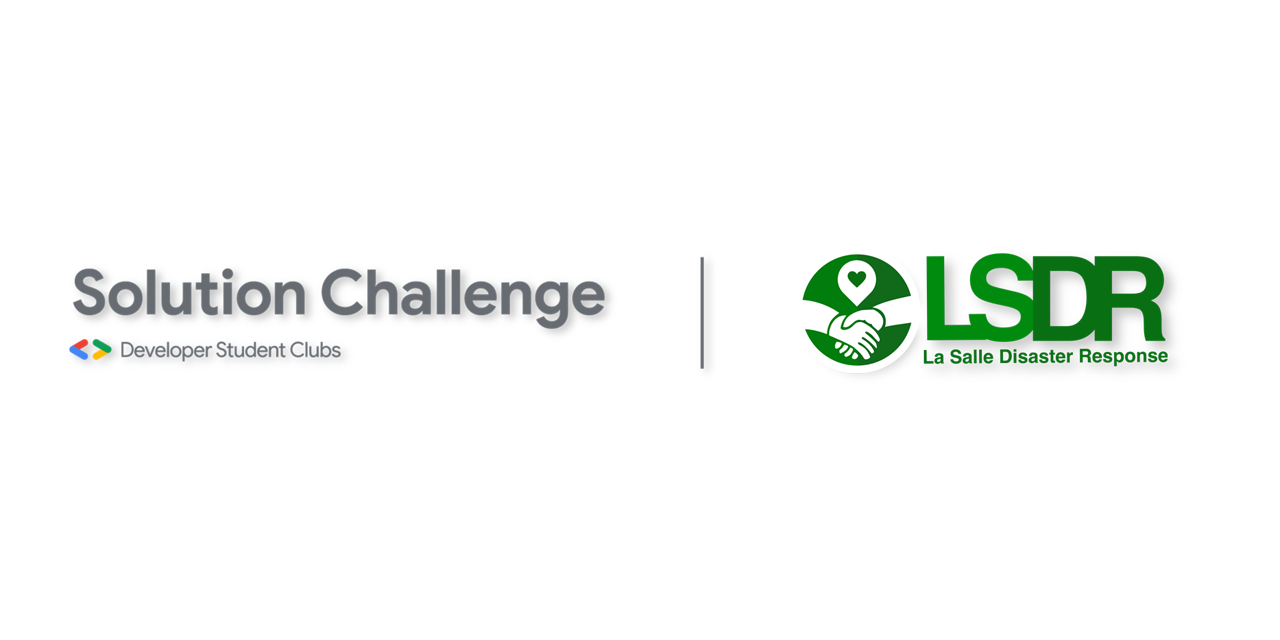
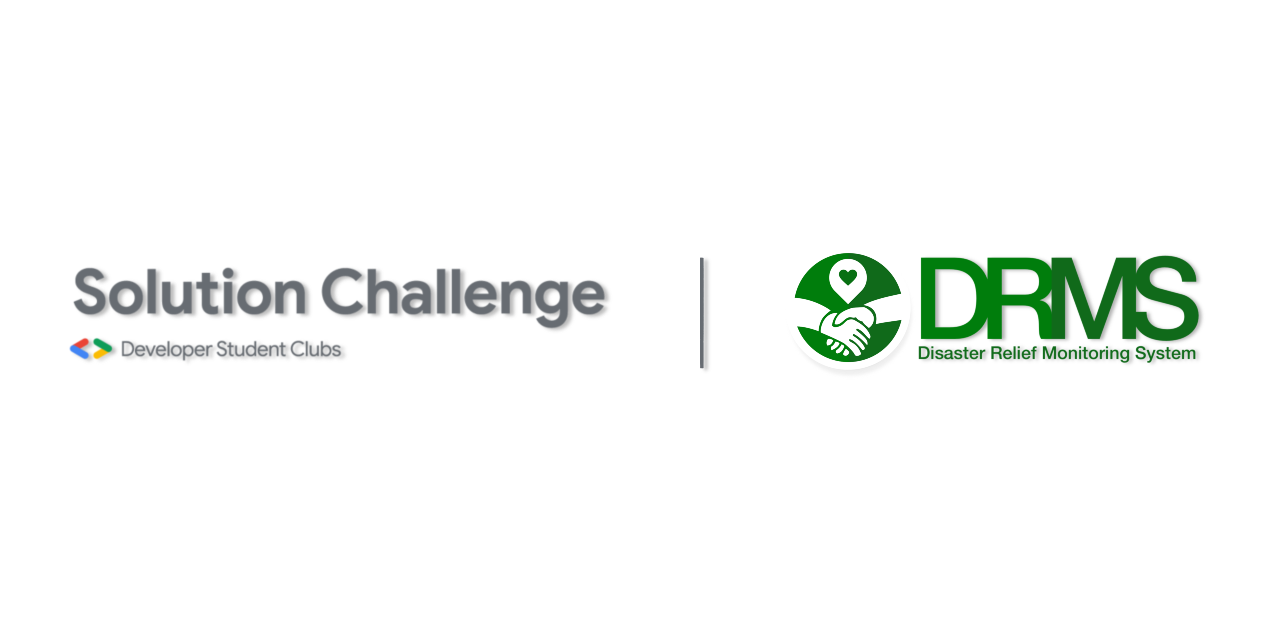
changed to drms

Changed region(s): [[0.625, 0.375, 0.9375, 0.5938], [0.0625, 0.4062, 0.4688, 0.5], [0.0625, 0.5312, 0.2812, 0.5625]]

diff --git a/src/components/Navbar.vue b/src/components/Navbar.vue
@@ -1,8 +1,8 @@
 <template>
   <div class="root">
     <v-app-bar height="70px" elevate-on-scroll fixed color="white">
-      <v-btn text color="white" class="mr-12 px-2" height="55px" to="/">
-        <img :src="require('../assets/brand.png')" height="55px"/>
+      <v-btn text color="white" class="mr-12 px-2" height="56px" to="/">
+        <img :src="require('../assets/brand.png')" height="56px"/>
       </v-btn>
       <v-spacer></v-spacer>
       <v-btn small text color="#184725" class="px-2 mx-2"

diff --git a/README.md b/README.md
@@ -1,4 +1,4 @@
-# La Salle Disaster Response
+# Disaster Relief Monitoring System
 
 ![alt text](src/assets/repoArt.png)
 
